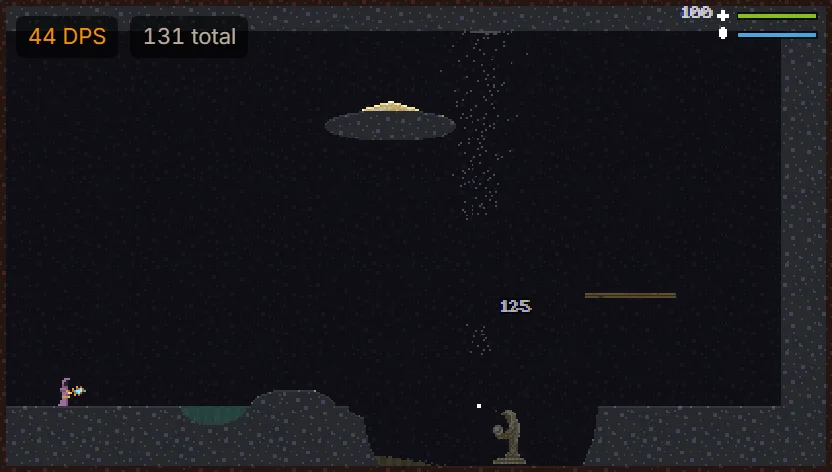
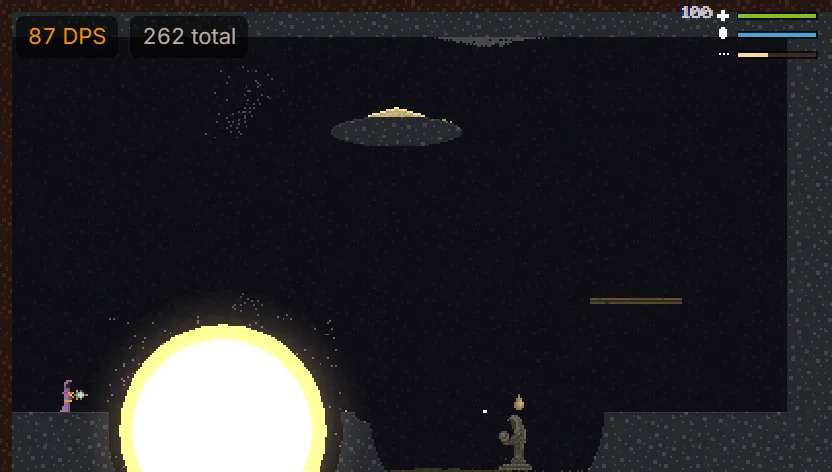
README: the Test Range shot keeps its liveliest frame

diff --git a/tools/readme-shots.ts b/tools/readme-shots.ts
@@ -168,7 +168,17 @@ const scenes: Scene[] = [
     sizes: ['laptop'],
     run: async (p) => {
       await firing(p, false);
-      return p.getByLabel(/^Test range:/).screenshot();
+      // Keep the liveliest of a few frames: the one with the most light in it (a blast, not the pause between casts).
+      const range = p.getByLabel(/^Test range:/);
+      let best: { png: Buffer; light: number } | null = null;
+      for (let i = 0; i < 16; i++) {
+        const png = await range.screenshot();
+        const { channels } = await sharp(png).stats();
+        const light = channels.slice(0, 3).reduce((sum, c) => sum + c.mean, 0);
+        if (!best || light > best.light) best = { png, light };
+        await p.waitForTimeout(170);
+      }
+      return best!.png;
     },
   },
   {
